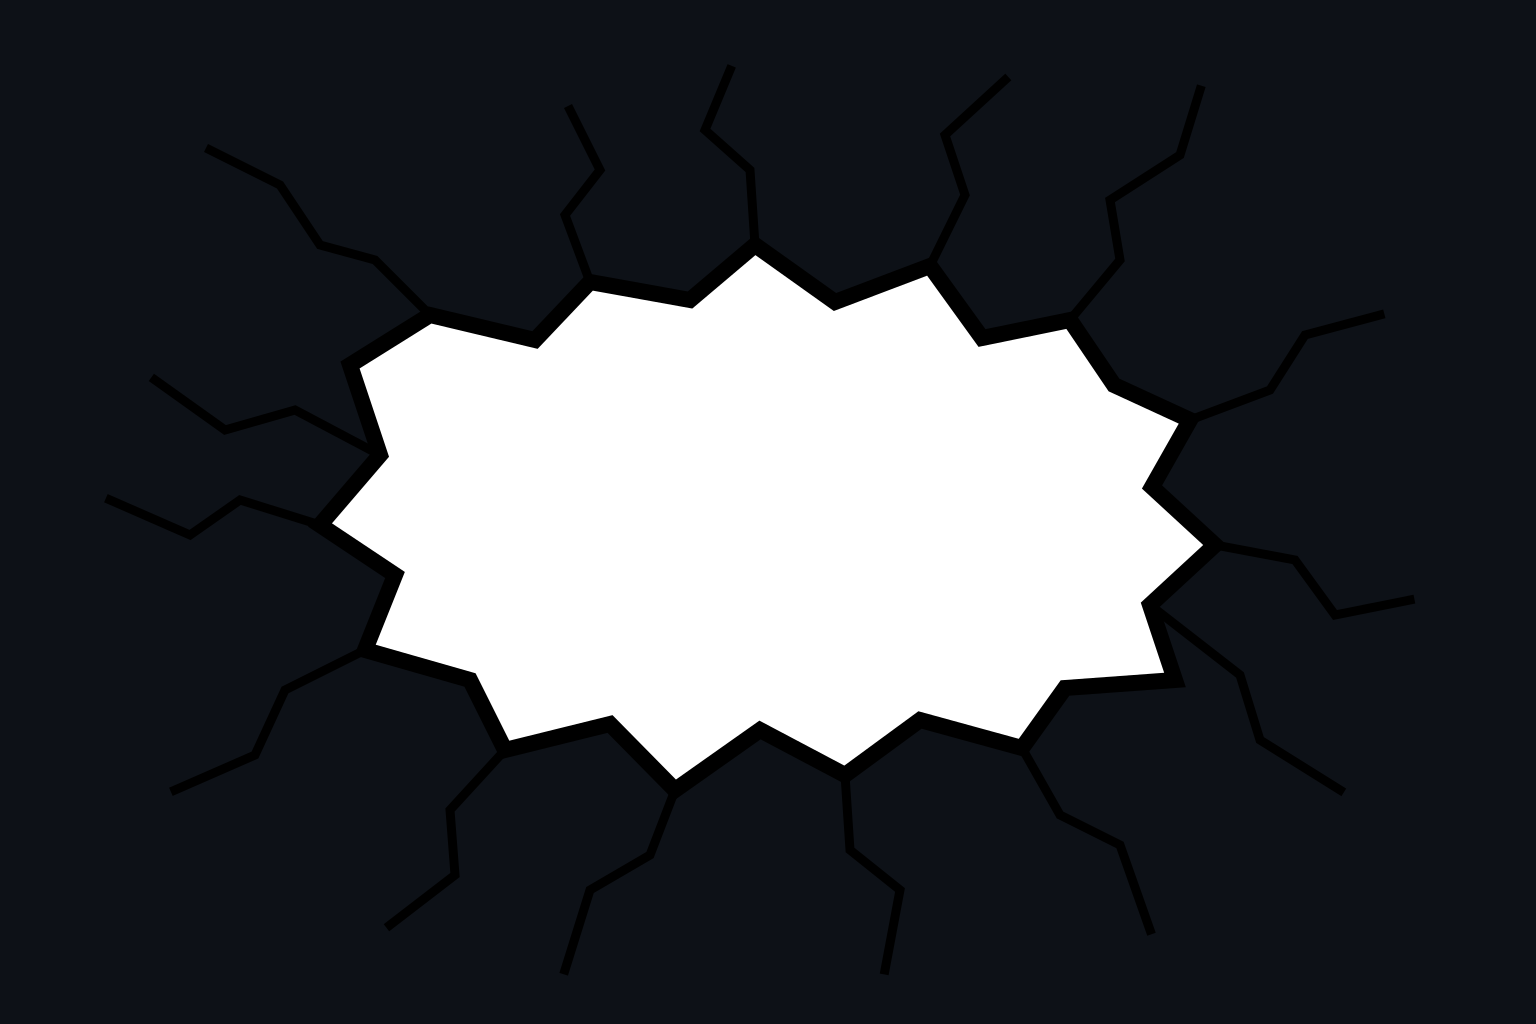
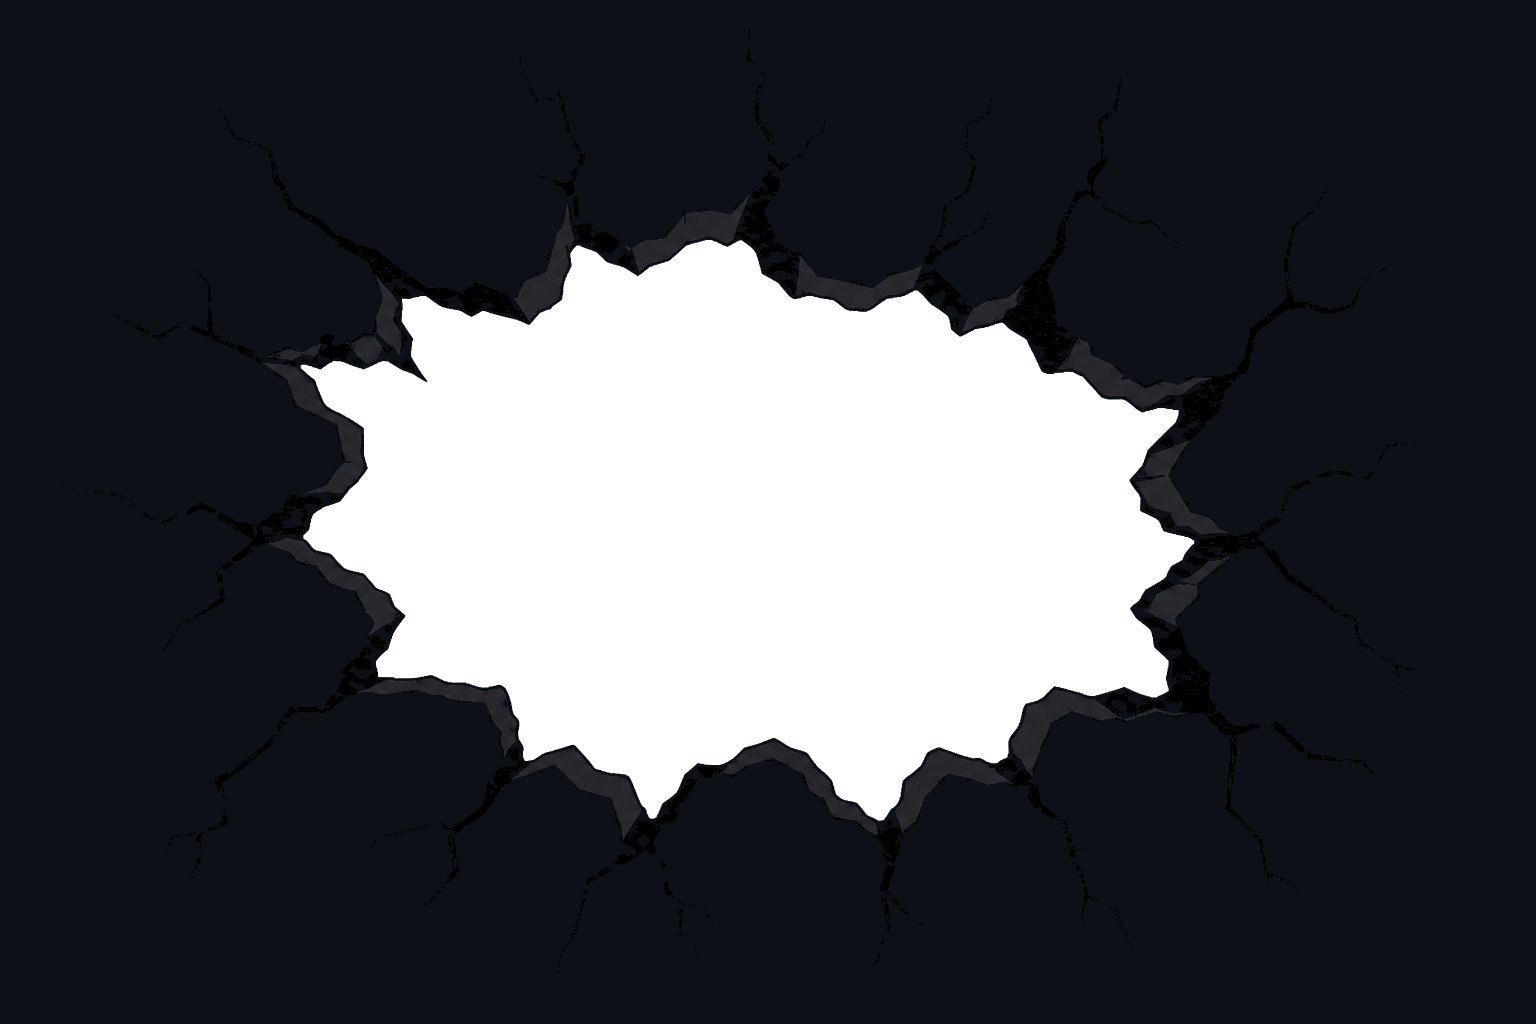
fix: make it to finals

Changed region(s): [[0.1562, 0.1875, 0.8125, 0.8125]]

diff --git a/style.css b/style.css
@@ -153,74 +153,29 @@ h1, h2, h3 {
 
 .broken-wall {
 	position: relative;
-	margin-top: 12px;
-	aspect-ratio: 3 / 2;
-	overflow: hidden;
-	background: #0d1117;
+	margin: 10px;
+	aspect-ratio: 2 / 0.9;
 }
 
 .space-hole {
 	position: absolute;
 	inset: 16% 12%;
 	overflow: hidden;
-	background: #000;
-}
-
-.space-hole img {
-	position: absolute;
-	object-fit: cover;
-	image-rendering: pixelated;
-}
-
-.space-hole img:nth-child(1) {
-	inset: 0;
-	width: 100%;
-	height: 100%;
-}
-
-.space-hole img:nth-child(2) {
-	right: -8%;
-	top: -12%;
-	width: 65%;
-	height: 75%;
-	mix-blend-mode: screen;
-}
-
-.space-hole img:nth-child(3) {
-	left: -5%;
-	bottom: -8%;
-	width: 48%;
-	height: 58%;
-	mix-blend-mode: screen;
-}
-
-.space-hole img:nth-child(4) {
-	right: -3%;
-	bottom: -12%;
-	width: 52%;
-	height: 60%;
-	opacity: .72;
-	mix-blend-mode: screen;
 }
 
 .camerons-link {
 	position: absolute;
 	z-index: 3;
-	left: 50%;
-	top: 69%;
-	padding: 3px 8px;
-	transform: translateX(-50%);
+	left: 33%;
+	top: 75%;
+	padding: 5px 5px;
 	background: #000;
-	border: 1px dashed #87cefa;
-	color: #87cefa;
-	font: bold 13px monospace;
+	font: bold 14px monospace;
 	text-decoration: none;
-	white-space: nowrap;
 }
 
 .camerons-link:hover {
-	background: #87cefa;
-	color: #000;
+	color: #fee;
 }
 
 .space-hole .pogl {
@@ -241,17 +196,10 @@ h1, h2, h3 {
 	transform: scale(1.12);
 }
 
-.button-strip {
-	display: flex;
-	justify-content: center;
-	flex-wrap: wrap;
-	gap: 5px;
-	margin-top: 10px;
-}
-
-.button-strip img {
-	width: 88px;
-	height: 31px;
+.gif-buttons {
+	text-decoration: none;
+	display: block;
+	text-align: center;
 }
 
 @media (max-width: 650px) {

diff --git a/ru/rebuild.htm b/ru/rebuild.htm
@@ -3,8 +3,8 @@
 <html xmlns="http://www.w3.org/1999/xhtml">
 
 <head>
-    <title>/home/grannev</title>
-    <link rel="icon" type="image/x-icon" href="./images/favicon.ico" />
+    <title>/home/grannev/rebuild</title>
+    <link rel="icon" type="image/x-icon" href="../images/favicon.ico" />
     <meta http-equiv="content-type" content="text/html; charset=utf-8" />
 
     <link rel="stylesheet" type="text/css" href="../style.css" />
@@ -18,22 +18,49 @@
 	</div>
 	<div class="broken-wall" title="There is something behind the wall">
 		<div class="space-hole">
-			<img src="../images/backgrounds/stars-sky.gif" alt="" />
 			<img src="../images/backgrounds/black_hole.gif" alt="" />
-			<img src="../images/backgrounds/open_space.gif" alt="" />
-			<img src="../images/backgrounds/night_sky.gif" alt="" />
-			<a class="camerons-link" href="https://www.cameronsworld.net/">[ enter Cameron's World ]</a>
-			<img class="pogl" src="../images/pogl-light.gif" alt="" />
+			<a
+				class="camerons-link" 
+			   	href="https://www.cameronsworld.net/"
+				target="_blank"
+			>
+			[ Войти в Cameron's World ]
+			</a>
 		</div>
-		<img class="wall-overlay" src="../images/broken-wall-v2.png" />
+		<img class="wall-overlay" src="../images/broken-wall.png" alt="Cracked wall" />
 	</div>
-	<div class="button-strip">
-		<img src="../images/ienuke.gif" alt="Internet Explorer no" />
-		<img src="../images/linux_powered.gif" alt="Linux powered" />
-		<img src="../images/love-vim.gif" alt="I love Vim" />
-		<img src="../images/pow-rebuild.gif" alt="Rebuild" />
-		<img src="../images/valid-xhtml10.gif" alt="Valid XHTML" />
-		<img src="../images/vcss-blue.gif" alt="Valid CSS" />
-		<img src="../images/unixwizards.gif" alt="Valid CSS" />
-	</div></body>
+	<br/>
+
+	<div class="gif-buttons">
+		<a href="https://www.palemoon.org" target="_blank">
+			<img src="../images/ienuke.gif" alt="No to Internet Explorer" />
+		</a>
+		
+		<a href="https://www.kernel.org" target="_blank">
+			<img src="../images/linux_powered.gif" alt="Linux powered" />
+		</a>
+
+		<a href="https://en.wikipedia.org/wiki/Vim_(text_editor)" target="_blank">
+			<img src="../images/love-vim.gif" alt="I love Vim" />
+		</a>
+		
+		<a href="http://www.rebuildworld.net" target="_blank">
+			<img src="../images/pow-rebuild.gif" alt="Rebuild The World!" />
+		</a>
+		
+		<a href="https://en.wikipedia.org/wiki/XHTML" target="_blank">
+			<img src="../images/valid-xhtml10.gif" alt="Valid XHTML" />
+		</a>
+		
+		<a href="https://en.wikipedia.org/wiki/CSS" target="_blank">
+			<img src="../images/vcss-blue.gif" alt="Valid CSS" />
+		</a>
+		
+		<a href="http://unixwizards.net" target="_blank">
+			<img src="../images/unixwizards.gif" alt="UnixWizards.net" />
+		</a>
+	</div>
+
+</body>
+
 </html>

diff --git a/rebuild.htm b/rebuild.htm
@@ -3,7 +3,7 @@
 <html xmlns="http://www.w3.org/1999/xhtml">
 
 <head>
-    <title>/home/grannev</title>
+    <title>/home/grannev/rebuild</title>
     <link rel="icon" type="image/x-icon" href="./images/favicon.ico" />
     <meta http-equiv="content-type" content="text/html; charset=utf-8" />
 
@@ -18,23 +18,49 @@
 	</div>
 	<div class="broken-wall" title="There is something behind the wall">
 		<div class="space-hole">
-			<img src="images/backgrounds/stars-sky.gif" alt="" />
 			<img src="images/backgrounds/black_hole.gif" alt="" />
-			<img src="images/backgrounds/open_space.gif" alt="" />
-			<img src="images/backgrounds/night_sky.gif" alt="" />
-			<a class="camerons-link" href="https://www.cameronsworld.net/">[ enter Cameron's World ]</a>
-			<img class="pogl" src="images/pogl-light.gif" alt="" />
+			<a
+				class="camerons-link" 
+			   	href="https://www.cameronsworld.net/"
+				target="_blank"
+			>
+			[ enter Cameron's World ]
+			</a>
 		</div>
-		<img class="wall-overlay" src="images/broken-wall-v2.png" alt="Cracked wall" />
+		<img class="wall-overlay" src="images/broken-wall.png" alt="Cracked wall" />
 	</div>
-	<div class="button-strip">
-		<img src="images/ienuke.gif" alt="Internet Explorer no" />
-		<img src="images/linux_powered.gif" alt="Linux powered" />
-		<img src="images/love-vim.gif" alt="I love Vim" />
-		<img src="images/pow-rebuild.gif" alt="Rebuild" />
-		<img src="images/valid-xhtml10.gif" alt="Valid XHTML" />
-		<img src="images/vcss-blue.gif" alt="Valid CSS" />
-		<img src="images/unixwizards.gif" alt="Valid CSS" />
+	<br/>
+
+	<div class="gif-buttons">
+		<a href="https://www.palemoon.org" target="_blank">
+			<img src="images/ienuke.gif" alt="No to Internet Explorer" />
+		</a>
+		
+		<a href="https://www.kernel.org" target="_blank">
+			<img src="images/linux_powered.gif" alt="Linux powered" />
+		</a>
+
+		<a href="https://en.wikipedia.org/wiki/Vim_(text_editor)" target="_blank">
+			<img src="images/love-vim.gif" alt="I love Vim" />
+		</a>
+		
+		<a href="http://www.rebuildworld.net" target="_blank">
+			<img src="images/pow-rebuild.gif" alt="Rebuild The World!" />
+		</a>
+		
+		<a href="https://en.wikipedia.org/wiki/XHTML" target="_blank">
+			<img src="images/valid-xhtml10.gif" alt="Valid XHTML" />
+		</a>
+		
+		<a href="https://en.wikipedia.org/wiki/CSS" target="_blank">
+			<img src="images/vcss-blue.gif" alt="Valid CSS" />
+		</a>
+		
+		<a href="http://unixwizards.net" target="_blank">
+			<img src="images/unixwizards.gif" alt="UnixWizards.net" />
+		</a>
 	</div>
+
 </body>
+
 </html>

diff --git a/ru/index.htm b/ru/index.htm
@@ -21,7 +21,7 @@
 				<strong>grannev@engineer</strong><br/>
 				<span class="fetch-rule">----------------</span><br/>
 				<span class="fetch-label">Имя:</span> Георгий<br/>
-				<span class="fetch-label">Роль:</span> Backend-Developer || Software-Engineer<br/>
+				<span class="fetch-label">Роль:</span> Backend-Developer && Software-Engineer<br/>
 				<span class="fetch-label">ОС:</span> GNU/Linux<br/>
 				<span class="fetch-label">Редактор:</span> Neovim<br/>
 				<span class="fetch-label">Лю Языки:</span> C, Go, Pascal<br/>
@@ -39,6 +39,7 @@
 		<a class="bash-dir" href="projects.htm">проекты/</a>
 		<a class="bash-dir" href="stack.htm">навыки/</a>
 		<a class="bash-dir" href="contacts.htm">связь-со-мной/</a>
+		<a class="bash-dir" href="rebuild.htm">реконструкция/</a>
 		<a class="bash open" target="_blank" href="resume.pdf">резюме.pdf</a>
 	</div>
 </body>